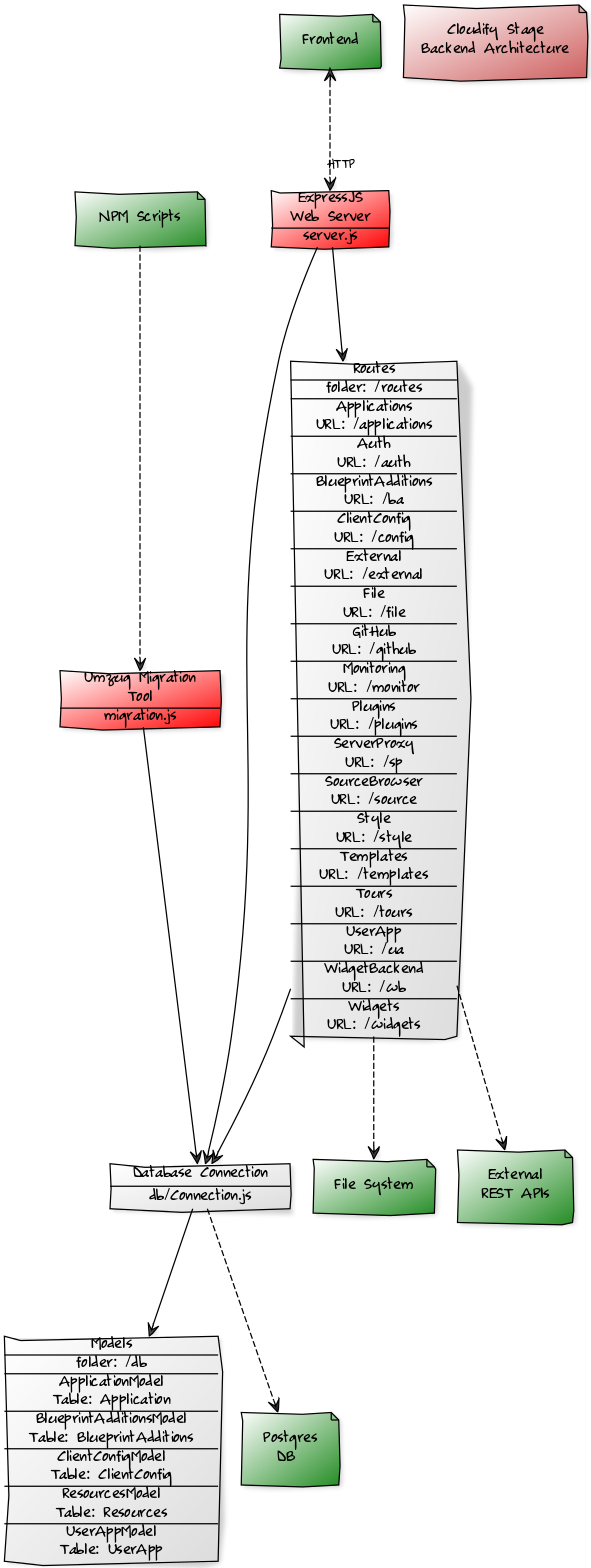
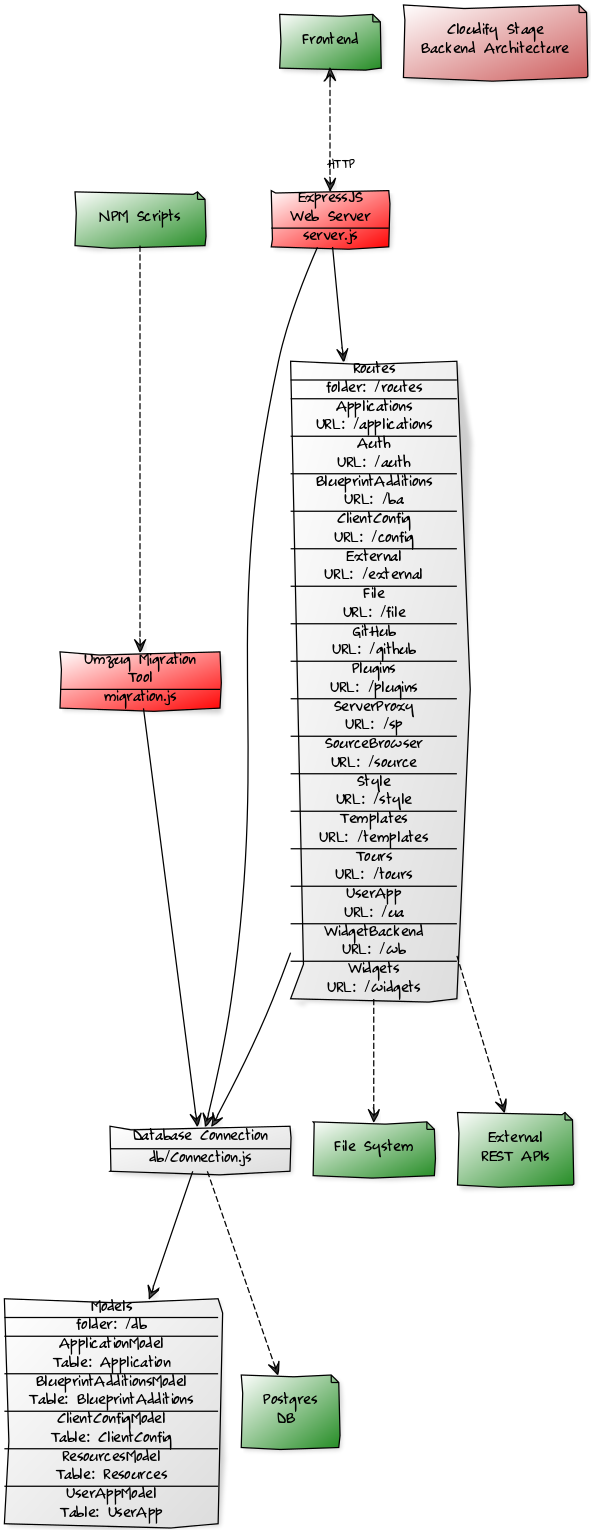
Updated architecture diagrams in internal documentation Added sources for diagrams generation

diff --git a/doc/diagrams/README.md b/doc/diagrams/README.md
@@ -1,0 +1,3 @@
+Tool to be used for diagrams generation: [yUML](http://yuml.me).
+
+You can generate diagrams using: [Scruffy class diagram](https://yuml.me/diagram/scruffy/class/draw).
